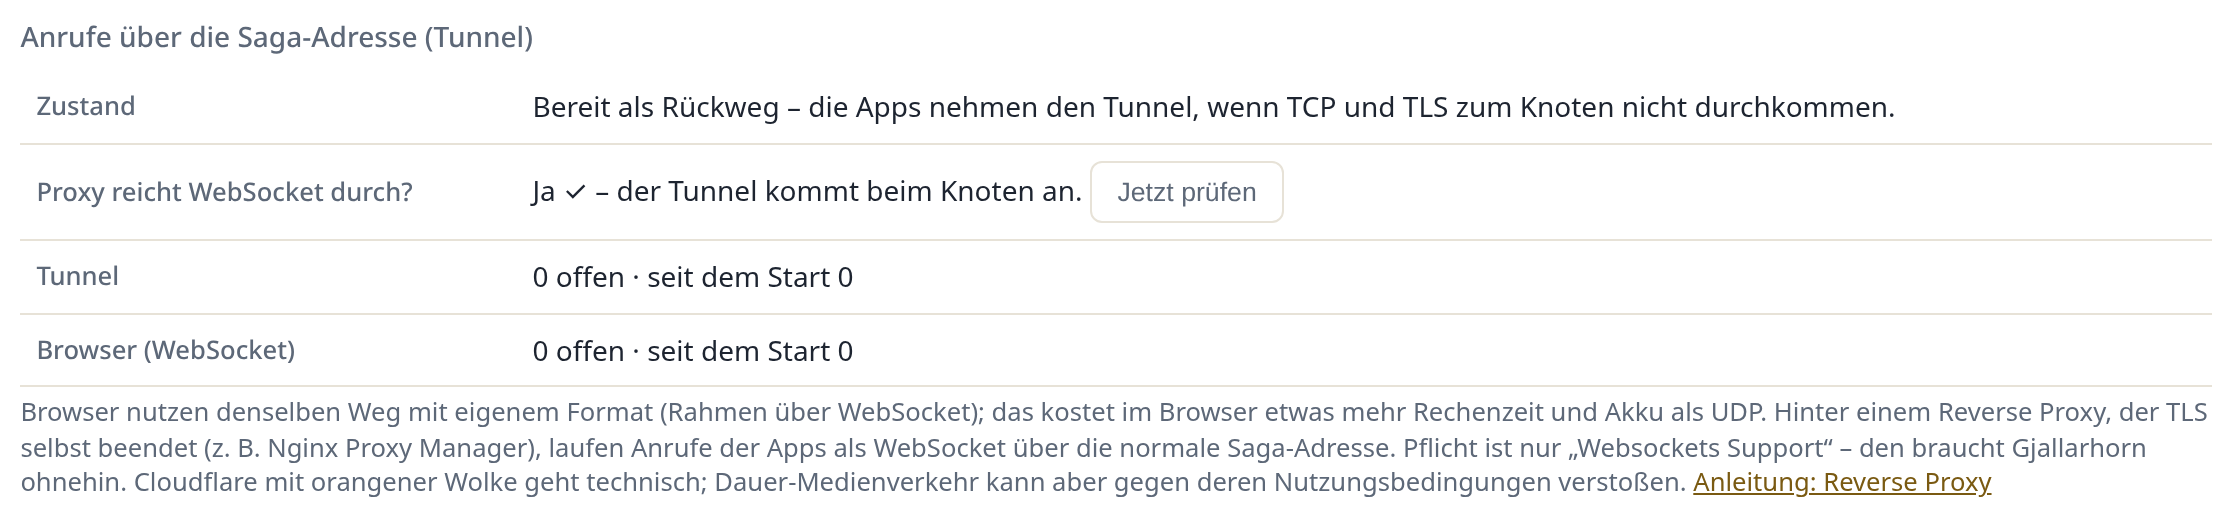
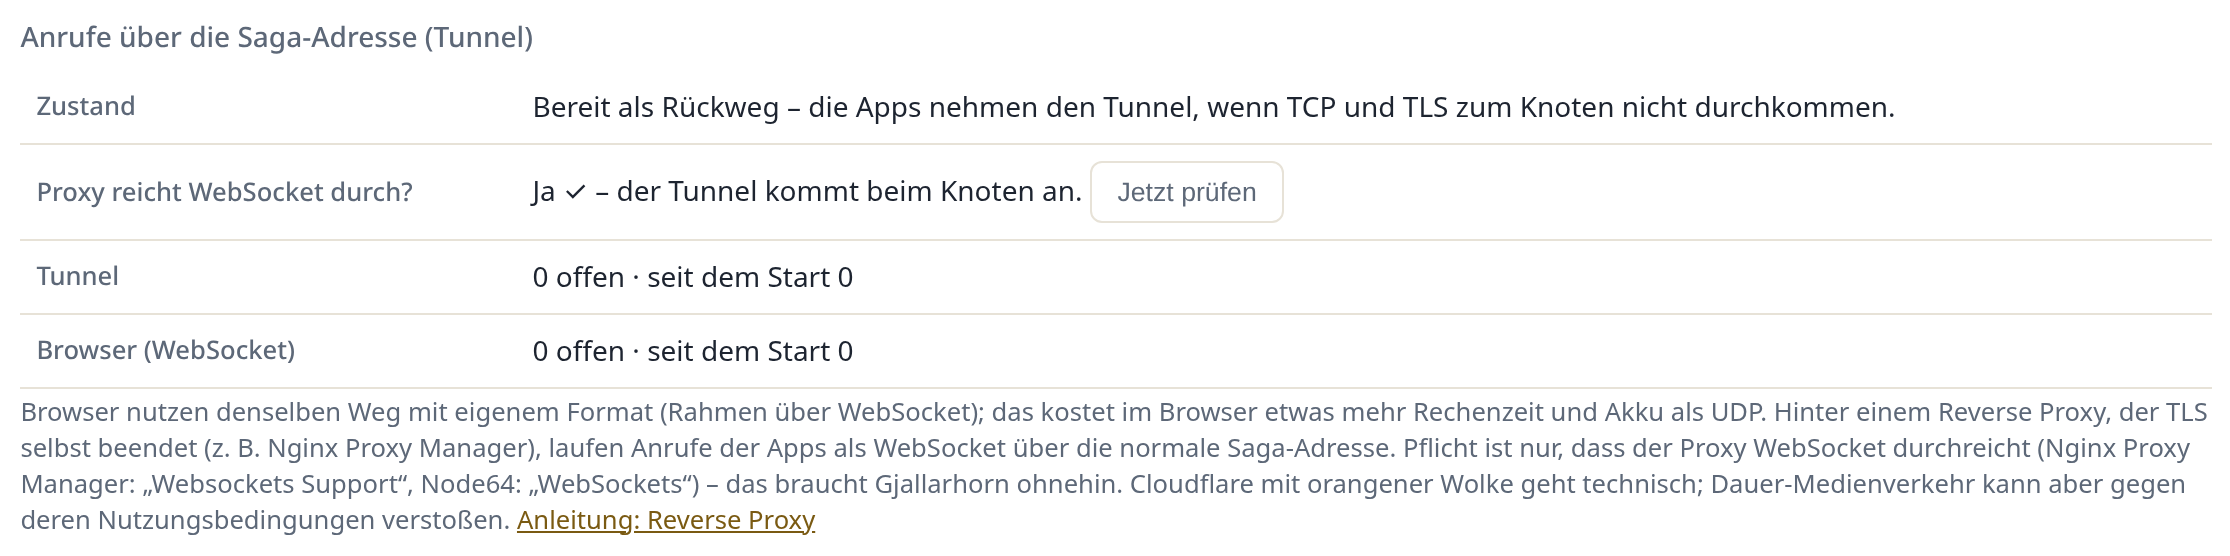
2456 Bilder ohne Marke "Experimentell" neu (Handbuch a06-02/a06-04/b13, Projektseite)
Neu aufgenommen mit tools/handbuch-stack.sh (saga-test): a06-02, a06-04, b13-01,
b13-02, b13-03, b13-07, b13-08, b13-09 sowie die Projektseiten-Bilder
anruf-gruppe.webp, handy-anruf.webp und tunnel.webp (2462: WebSocket-Hinweis
nennt NPM und Node64). Alt-Texte der Projektseite ohne "Experimentell",
Hoehe von tunnel.webp angepasst; BILDER.md-Abschnitt "Neu aufnehmen fuer 2.6"
abgehakt.

Claude-Session: https://claude.ai/code/session_01Tj78KNSGkpEXUyDDd57N5r

Changed region(s): [[0.0, 0.1533, 0.9901, 0.9808], [0.0, 0.3372, 0.1857, 0.3985], [0.0, 0.0307, 0.2475, 0.092]]

diff --git a/docs/th/index.html b/docs/th/index.html
@@ -147,7 +147,7 @@ if(m?m==="an":!(window.matchMedia&&matchMedia("(prefers-reduced-motion: reduce)"
 </ul>
 <p class="fine">ตั้งแต่ 2.6 Gjallarhorn เปิดใช้เป็นค่าเริ่มต้น สายตัวต่อตัวก็ผ่านโหนดด้วย และอุปกรณ์จะไม่เห็นที่อยู่ IP ของกันและกัน ส่วน Safari และเบราว์เซอร์บน iPhone/iPad ยังโทรแบบตรงหรือผ่าน TURN
           ขณะที่แอปมือถือและแอป Mac ใช้อุโมงค์ผ่านที่อยู่ Saga</p>
-</div><figure class="shot duo"><div class="gb"><img alt="การโทรกลุ่มสี่คนแสดงเป็นช่อง มีป้ายเข้ารหัสแบบต้นทางถึงปลายทางและป้ายทดลอง และเปิดรายชื่อผู้ร่วมสายไว้" height="1250" loading="lazy" src="../bilder/anruf-gruppe.webp" width="2000"></div><div class="ph"><img alt="มือถือระหว่างการโทรกลุ่มสี่คน" height="1688" loading="lazy" src="../bilder/handy-anruf.webp" width="780"></div></figure></div>
+</div><figure class="shot duo"><div class="gb"><img alt="การโทรกลุ่มสี่คนแสดงเป็นช่อง มีป้ายเข้ารหัสแบบต้นทางถึงปลายทาง และเปิดรายชื่อผู้ร่วมสายไว้" height="1250" loading="lazy" src="../bilder/anruf-gruppe.webp" width="2000"></div><div class="ph"><img alt="มือถือระหว่างการโทรกลุ่มสี่คน" height="1688" loading="lazy" src="../bilder/handy-anruf.webp" width="780"></div></figure></div>
     <div class="feature rev rv"><div class="txt">
 <h3>แชทที่ทำได้มากกว่า</h3>
 <p>แชทแบบใหม่ (ระดับ 3) เปิดเป็นค่าเริ่มต้นแล้ว ยังคงเข้ารหัสแบบต้นทางถึงปลายทาง และมีทุกอย่างที่ใช้ในชีวิตประจำวัน</p>
@@ -250,7 +250,7 @@ if(m?m==="an":!(window.matchMedia&&matchMedia("(prefers-reduced-motion: reduce)"
 
 <span class="tl" style="--n:41;--t:0.45s;--d:5.74s"><span class="c"># อัปเดตภายหลัง (Saga สำรองข้อมูลให้ก่อน)</span></span>
 <span class="tl" style="--n:43;--t:0.82s;--d:6.31s">docker compose pull &amp;&amp; docker compose up -d</span><span class="cur" aria-hidden="true" style="--d:7.25s"></span></pre></div></div>
-        <figure class="shot"><img alt="ผู้ดูแลระบบ → การโทร: กล่องการโทรผ่านที่อยู่ Saga (อุโมงค์) แจ้งว่า proxy ส่งต่อ WebSocket ได้" height="468" loading="lazy" src="../bilder/tunnel.webp" width="2000"></figure>
+        <figure class="shot"><img alt="ผู้ดูแลระบบ → การโทร: กล่องการโทรผ่านที่อยู่ Saga (อุโมงค์) แจ้งว่า proxy ส่งต่อ WebSocket ได้" height="499" loading="lazy" src="../bilder/tunnel.webp" width="2000"></figure>
       </div>
       <ol class="steps rv d1">
 <li><b>เริ่มต้น</b><span>ดึงอิมเมจแล้วเริ่มทำงาน Saga รับที่พอร์ต 8080 ส่วนผู้ดูแลระบบอยู่ที่ 8081 (เฉพาะในเครื่อง)</span></li>

diff --git a/docs/ru/index.html b/docs/ru/index.html
@@ -147,7 +147,7 @@ if(m?m==="an":!(window.matchMedia&&matchMedia("(prefers-reduced-motion: reduce)"
 </ul>
 <p class="fine">С версии 2.6 Gjallarhorn включён по умолчанию – звонки вдвоём тоже идут через узел, и устройства не видят IP-адреса друг друга. Safari и браузеры на iPhone/iPad пока звонят напрямую или через
           TURN; приложения и приложение для Mac используют туннель через адрес Saga.</p>
-</div><figure class="shot duo"><div class="gb"><img alt="Групповой звонок: четыре участника плитками, метки сквозного шифрования и «Экспериментально», открыт список участников" height="1250" loading="lazy" src="../bilder/anruf-gruppe.webp" width="2000"></div><div class="ph"><img alt="Телефон в групповом звонке на четверых" height="1688" loading="lazy" src="../bilder/handy-anruf.webp" width="780"></div></figure></div>
+</div><figure class="shot duo"><div class="gb"><img alt="Групповой звонок: четыре участника плитками, метка сквозного шифрования, открыт список участников" height="1250" loading="lazy" src="../bilder/anruf-gruppe.webp" width="2000"></div><div class="ph"><img alt="Телефон в групповом звонке на четверых" height="1688" loading="lazy" src="../bilder/handy-anruf.webp" width="780"></div></figure></div>
     <div class="feature rev rv"><div class="txt">
 <h3>Чаты, которые умеют больше</h3>
 <p>Современные чаты (уровень 3) теперь включены по умолчанию: по-прежнему со сквозным шифрованием и со всем, что нужно каждый день.</p>
@@ -250,7 +250,7 @@ if(m?m==="an":!(window.matchMedia&&matchMedia("(prefers-reduced-motion: reduce)"
 
 <span class="tl" style="--n:54;--t:0.59s;--d:5.74s"><span class="c"># обновить позже (Saga сначала делает резервную копию)</span></span>
 <span class="tl" style="--n:43;--t:0.82s;--d:6.45s">docker compose pull &amp;&amp; docker compose up -d</span><span class="cur" aria-hidden="true" style="--d:7.39s"></span></pre></div></div>
-        <figure class="shot"><img alt="Администрирование → Звонки: блок о звонках через адрес Saga (туннель) сообщает, что прокси пропускает WebSocket" height="468" loading="lazy" src="../bilder/tunnel.webp" width="2000"></figure>
+        <figure class="shot"><img alt="Администрирование → Звонки: блок о звонках через адрес Saga (туннель) сообщает, что прокси пропускает WebSocket" height="499" loading="lazy" src="../bilder/tunnel.webp" width="2000"></figure>
       </div>
       <ol class="steps rv d1">
 <li><b>Запуск</b><span>Скачай образ и запусти – Saga слушает порт 8080, панель администратора – 8081 (только локально).</span></li>

diff --git a/docs/es/index.html b/docs/es/index.html
@@ -147,7 +147,7 @@ if(m?m==="an":!(window.matchMedia&&matchMedia("(prefers-reduced-motion: reduce)"
 </ul>
 <p class="fine">Desde la 2.6 Gjallarhorn viene activado de fábrica: también las llamadas entre dos personas pasan por el nodo y los dispositivos no ven las direcciones IP. Safari y los navegadores de iPhone/iPad todavía llaman de forma directa
           o mediante TURN; las apps y la app de Mac usan el túnel a través de la dirección de Saga.</p>
-</div><figure class="shot duo"><div class="gb"><img alt="Llamada en grupo con cuatro participantes en mosaico, indicaciones de cifrado de extremo a extremo y «Experimental» y la lista de participantes abierta" height="1250" loading="lazy" src="../bilder/anruf-gruppe.webp" width="2000"></div><div class="ph"><img alt="Móvil en una llamada en grupo con cuatro personas" height="1688" loading="lazy" src="../bilder/handy-anruf.webp" width="780"></div></figure></div>
+</div><figure class="shot duo"><div class="gb"><img alt="Llamada en grupo con cuatro participantes en mosaico, indicación de cifrado de extremo a extremo y la lista de participantes abierta" height="1250" loading="lazy" src="../bilder/anruf-gruppe.webp" width="2000"></div><div class="ph"><img alt="Móvil en una llamada en grupo con cuatro personas" height="1688" loading="lazy" src="../bilder/handy-anruf.webp" width="780"></div></figure></div>
     <div class="feature rev rv"><div class="txt">
 <h3>Chats que hacen más</h3>
 <p>Los chats modernos (nivel 3) son ahora la opción predeterminada: siguen cifrados de extremo a extremo y traen todo lo que necesitas a diario.</p>
@@ -250,7 +250,7 @@ if(m?m==="an":!(window.matchMedia&&matchMedia("(prefers-reduced-motion: reduce)"
 
 <span class="tl" style="--n:66;--t:0.73s;--d:5.84s"><span class="c"># actualizar más adelante (Saga hace antes una copia de seguridad)</span></span>
 <span class="tl" style="--n:43;--t:0.82s;--d:6.69s">docker compose pull &amp;&amp; docker compose up -d</span><span class="cur" aria-hidden="true" style="--d:7.63s"></span></pre></div></div>
-        <figure class="shot"><img alt="Administración → Llamadas: el recuadro de llamadas a través de la dirección de Saga (túnel) indica que el proxy deja pasar WebSocket" height="468" loading="lazy" src="../bilder/tunnel.webp" width="2000"></figure>
+        <figure class="shot"><img alt="Administración → Llamadas: el recuadro de llamadas a través de la dirección de Saga (túnel) indica que el proxy deja pasar WebSocket" height="499" loading="lazy" src="../bilder/tunnel.webp" width="2000"></figure>
       </div>
       <ol class="steps rv d1">
 <li><b>Iniciar</b><span>Descarga la imagen e inicia: Saga escucha en el puerto 8080 y el área de administración en el 8081 (solo local).</span></li>

diff --git a/docs/en/index.html b/docs/en/index.html
@@ -147,7 +147,7 @@ if(m?m==="an":!(window.matchMedia&&matchMedia("(prefers-reduced-motion: reduce)"
 </ul>
 <p class="fine">From 2.6 Gjallarhorn is on by default – calls between two people go through the node as well, and devices don’t see each other’s IP addresses. Safari and browsers on iPhone/iPad still call directly or via TURN;
           the apps and the Mac app use the tunnel through the Saga address.</p>
-</div><figure class="shot duo"><div class="gb"><img alt="Group call with four participants as tiles, labels “end-to-end encrypted” and “experimental”, participant list open" height="1250" loading="lazy" src="../bilder/anruf-gruppe.webp" width="2000"></div><div class="ph"><img alt="Phone in a group call with four people" height="1688" loading="lazy" src="../bilder/handy-anruf.webp" width="780"></div></figure></div>
+</div><figure class="shot duo"><div class="gb"><img alt="Group call with four participants as tiles, label “end-to-end encrypted”, participant list open" height="1250" loading="lazy" src="../bilder/anruf-gruppe.webp" width="2000"></div><div class="ph"><img alt="Phone in a group call with four people" height="1688" loading="lazy" src="../bilder/handy-anruf.webp" width="780"></div></figure></div>
     <div class="feature rev rv"><div class="txt">
 <h3>Chats that do more</h3>
 <p>Modern chats (level 3) are now the default: still end-to-end encrypted, with everything you need day to day.</p>
@@ -250,7 +250,7 @@ if(m?m==="an":!(window.matchMedia&&matchMedia("(prefers-reduced-motion: reduce)"
 
 <span class="tl" style="--n:42;--t:0.46s;--d:5.67s"><span class="c"># update later (Saga makes a backup first)</span></span>
 <span class="tl" style="--n:43;--t:0.82s;--d:6.25s">docker compose pull &amp;&amp; docker compose up -d</span><span class="cur" aria-hidden="true" style="--d:7.19s"></span></pre></div></div>
-        <figure class="shot"><img alt="Admin → Calls: the box “Calls through the Saga address (tunnel)” reports that the proxy passes WebSockets through" height="468" loading="lazy" src="../bilder/tunnel.webp" width="2000"></figure>
+        <figure class="shot"><img alt="Admin → Calls: the box “Calls through the Saga address (tunnel)” reports that the proxy passes WebSockets through" height="499" loading="lazy" src="../bilder/tunnel.webp" width="2000"></figure>
       </div>
       <ol class="steps rv d1">
 <li><b>Start</b><span>Pull the image and start – Saga listens on port 8080, the admin area on 8081 (local only).</span></li>

diff --git a/docs/index.html b/docs/index.html
@@ -155,7 +155,7 @@ location.replace("en/")}catch(e){}})();
 </ul>
 <p class="fine">Ab 2.6 ist Gjallarhorn ab Werk an – auch Anrufe zu zweit laufen dann über den Knoten, die Geräte sehen keine IP-Adressen. Safari und Browser auf iPhone/iPad telefonieren noch direkt
           oder über TURN; die Apps und die Mac-App nutzen den Tunnel über die Saga-Adresse.</p>
-</div><figure class="shot duo"><div class="gb"><img alt="Gruppenanruf zu viert mit Kacheln der Teilnehmenden, Hinweisen „Ende-zu-Ende verschlüsselt“ und „Experimentell“ und geöffneter Teilnehmerliste" height="1250" loading="lazy" src="bilder/anruf-gruppe.webp" width="2000"></div><div class="ph"><img alt="Handy im Gruppenanruf zu viert" height="1688" loading="lazy" src="bilder/handy-anruf.webp" width="780"></div></figure></div>
+</div><figure class="shot duo"><div class="gb"><img alt="Gruppenanruf zu viert mit Kacheln der Teilnehmenden, Hinweis „Ende-zu-Ende verschlüsselt“ und geöffneter Teilnehmerliste" height="1250" loading="lazy" src="bilder/anruf-gruppe.webp" width="2000"></div><div class="ph"><img alt="Handy im Gruppenanruf zu viert" height="1688" loading="lazy" src="bilder/handy-anruf.webp" width="780"></div></figure></div>
     <div class="feature rev rv"><div class="txt">
 <h3>Chats, die mehr können</h3>
 <p>Moderne Chats (Stufe 3) sind jetzt Standard: weiterhin Ende-zu-Ende-verschlüsselt, mit allem, was man im Alltag braucht.</p>
@@ -258,7 +258,7 @@ location.replace("en/")}catch(e){}})();
 
 <span class="tl" style="--n:55;--t:0.6s;--d:5.79s"><span class="c"># später aktualisieren (Saga legt vorher ein Backup an)</span></span>
 <span class="tl" style="--n:43;--t:0.82s;--d:6.51s">docker compose pull &amp;&amp; docker compose up -d</span><span class="cur" aria-hidden="true" style="--d:7.45s"></span></pre></div></div>
-        <figure class="shot"><img alt="Admin → Anrufe: Kasten „Anrufe über die Saga-Adresse (Tunnel)“ meldet „Proxy reicht WebSocket durch? Ja“" height="468" loading="lazy" src="bilder/tunnel.webp" width="2000"></figure>
+        <figure class="shot"><img alt="Admin → Anrufe: Kasten „Anrufe über die Saga-Adresse (Tunnel)“ meldet „Proxy reicht WebSocket durch? Ja“" height="499" loading="lazy" src="bilder/tunnel.webp" width="2000"></figure>
       </div>
       <ol class="steps rv d1">
 <li><b>Starten</b><span>Image ziehen und starten – Saga lauscht auf Port 8080, der Admin-Bereich auf 8081 (nur lokal).</span></li>

diff --git a/docs/handbuch/bilder/BILDER.md b/docs/handbuch/bilder/BILDER.md
@@ -58,9 +58,9 @@ tools/handbuch-stack.sh                              # alle bekannten Bilder
 | a05-05-mitteilungen.png | A05 | Web | hell | Mitteilungen: Web Push, ntfy, UnifiedPush, Apple Push (Felder leer) | – |
 | a05-06-diagnose.png | A05 | Web | hell | Allgemein → Diagnose: „Diagnose senden“ der Benutzer (clientlog) | – |
 | a06-01-anrufe.png | A06 | Web | hell | Anrufe → 1:1-Anrufe: STUN/TURN (Geheimnis leer), nur über TURN, Anruf-Diagnose, Klingeldauer, Gruppenanrufe ohne Knoten | – |
-| a06-02-knoten-liste.png | A06 | Web | hell | Gjallarhorn (noch mit Marke „Experimentell“ aus 2.5 – neu aufnehmen, s. u.): drei Schalter (alle an), Tunnel-Kasten („Bereit als Rückweg“), Knoten-Liste mit dem eingebauten Knoten knoten.verein.example (Bereit, 2.5.0), Erweitern | – |
+| a06-02-knoten-liste.png | A06 | Web | hell | Gjallarhorn (2.6, ohne Marke „Experimentell“): Grenzen je Anruf über Knoten, drei Schalter (alle an), Tunnel-Kasten („Bereit als Rückweg“, Hinweis „Proxy reicht WebSocket durch“ mit NPM und Node64), Knoten-Liste mit dem eingebauten Knoten knoten.verein.example (Bereit, Geschätzte Kapazität, Version aus `VERSION`), Hinweis HORN_MAX_PER_IP, Erweitern | – |
 | a06-03-knoten-koppeln.png | A06 | Web | hell | Erweitern: weiteren Knoten koppeln – Name (Vorschlag des Servers), Optionen, Kopplungs-Skript erzeugen | 1 = Name des neuen Knotens; 2 = Skript erzeugen (auf dem neuen Server ausführen) |
-| a06-04-tunnel-kasten.png | A06 | Web | hell | Kasten „Anrufe über die Saga-Adresse (Tunnel)“ nach „Jetzt prüfen“: Zustand „Bereit als Rückweg“ (Knoten mit eigenem Namen), „Proxy reicht WebSocket durch? Ja ✓“, Tunnel, Browser (WebSocket) | – |
+| a06-04-tunnel-kasten.png | A06 | Web | hell | Kasten „Anrufe über die Saga-Adresse (Tunnel)“ nach „Jetzt prüfen“: Zustand „Bereit als Rückweg“ (Knoten mit eigenem Namen), „Proxy reicht WebSocket durch? Ja ✓“, Tunnel, Browser (WebSocket); Hinweis „Pflicht ist nur, dass der Proxy WebSocket durchreicht (Nginx Proxy Manager … Node64 …)“ | – |
 | a07-01-foederation.png | A07 | Web | hell | Föderation (ganze Seite): diese Instanz verein.example, Fingerprint, Einladen, Verbinden, verbundene Instanz saga.example | – |
 | a07-02-einladung.png | A07 | Web | hell | Einladungscode erzeugen (gilt einmal; Code hier erfunden) – die andere Instanz trägt ihn ein | – |
 | a07-03-funktionen-je-instanz.png | A07 | Web | hell | Funktionen je Instanz (Familie Sommer, saga.example): Protokoll, gemeinsame Fähigkeiten, Chat, Anrufe, Adressbuch, gemeinsame Gruppen | – |
@@ -249,23 +249,27 @@ tools/handbuch-stack.sh                              # alle bekannten Bilder
 - a01-02: Admin-Anmeldung ohne zweiten Faktor (Demo verlangt keinen); 2FA-Abfrage selbst siehe b01-03.
 - b10-04: öffentliche Adresse ist `saga.example/@anna-sommer/sommerfest` (öffentlicher Name der Demo), nicht `@sommer`.
 
-## Neu aufnehmen für 2.6: Marke „Experimentell“ (2263-10)
+## Neu aufgenommen für 2.6: Marke „Experimentell“ (2263-10, Bugs-DB 2456) – erledigt 26.11.2026
 
 Seit 2.6 ist Gjallarhorn ab Werk an; die Marke „Experimentell“, der Kasten „getestet mit bis zu 4 …“ (Admin) und der
-Chip im Anrufkopf sowie der Satz in der Teilnehmerliste (Web) sind weg (2263-4, 2263-5). Diese Bilder zeigen sie noch
-und müssen neu aufgenommen werden (`tools/handbuch-stack.sh --nur a06-02,b13-01,b13-02,b13-03,b13-07,b13-08,b13-09`):
+Chip im Anrufkopf sowie der Satz in der Teilnehmerliste (Web) sind weg (2263-4, 2263-5). Neu aufgenommen mit
+`tools/handbuch-stack.sh --nur a06-02,a06-04,b13-01,b13-02,b13-03,b13-07,b13-08,b13-09,w-anruf,w-tunnel`:
 
-- **a06-02** – Marke neben „Gjallarhorn – große Gruppenanrufe“ und „Knoten“, Kasten „Gjallarhorn ist in Saga 2.5
-  experimentell …“; neu dazu: Zeile „Grenzen je Anruf über Knoten“ und „Geschätzte Kapazität“ beim Knoten, Version 2.6.
-- **b13-01, b13-02, b13-03, b13-07, b13-09** – Chip „Experimentell“ im Anrufkopf.
-- **b13-08** – Chip im Anrufkopf und Kasten „Experimentell – Gjallarhorn ist in Saga 2.5 experimentell …“ in der
-  Teilnehmerliste.
-- **Projektseite** (nicht Handbuch, `tools/website-bilder.py`): `docs/bilder/anruf-gruppe.webp` (Chip und Kasten in der
-  Teilnehmerliste) und `docs/bilder/handy-anruf.webp` (Chip) – Alt-Texte in `docs/index.html` und den Sprachfassungen
-  nennen „Experimentell“ noch, bis die Bilder neu sind.
+- [x] **a06-02** – ohne Marke und Kasten; neu: Zeile „Grenzen je Anruf über Knoten“, „Geschätzte Kapazität“ beim
+  Knoten, Hinweis HORN_MAX_PER_IP; Text am Schalter „Eingebauten Knoten …“ und Tunnel-Hinweis nennen NPM und Node64
+  (Bugs-DB 2462). Die Knoten-Version kommt aus `VERSION` (auf main noch 2.5.0).
+- [x] **a06-04** und Projektseite `docs/bilder/tunnel.webp` (Szene `w-tunnel`) – Tunnel-Hinweis „Pflicht ist nur, dass
+  der Proxy WebSocket durchreicht …“ statt nur „Websockets Support“ (2462); Bild 34 px höher (`height` in den
+  `docs/*index.html` angepasst).
+- [x] **b13-01, b13-02, b13-03, b13-07, b13-09** – ohne Chip „Experimentell“ im Anrufkopf.
+- [x] **b13-08** – ohne Chip und ohne Kasten in der Teilnehmerliste.
+- [x] **Projektseite** (`tools/website-bilder.py`, Szene `w-anruf`): `docs/bilder/anruf-gruppe.webp` und
+  `docs/bilder/handy-anruf.webp` (Handy-Browser mit Android-Kennung, kein App-Bild) – Alt-Texte in `docs/index.html`
+  und den Sprachfassungen ohne „Experimentell“.
 
-Geprüft am 26.11.2026 durch Ansehen der Bilder; a07-01 ist sauber. Nicht angesehen: a01-01, a06-01, a06-03, a06-04,
-b13-04, b13-05, b13-10 – beim Neuaufnehmen mit prüfen.
+Angesehen und sauber (nicht neu): a01-01, a06-01, a06-03, a07-01, b13-04, b13-05, b13-10, b13-11. Noch mit Marke:
+**b13-12** (iOS-App, aus dem App-Durchgang 2029-6, Chip „Experimentell“ in der Teilnehmerliste) – die iOS-App zeigt ihn
+seit 2263 nicht mehr; neu nur mit dem iOS-Simulator.
 
 ## Funde aus Durchgang 2
 
